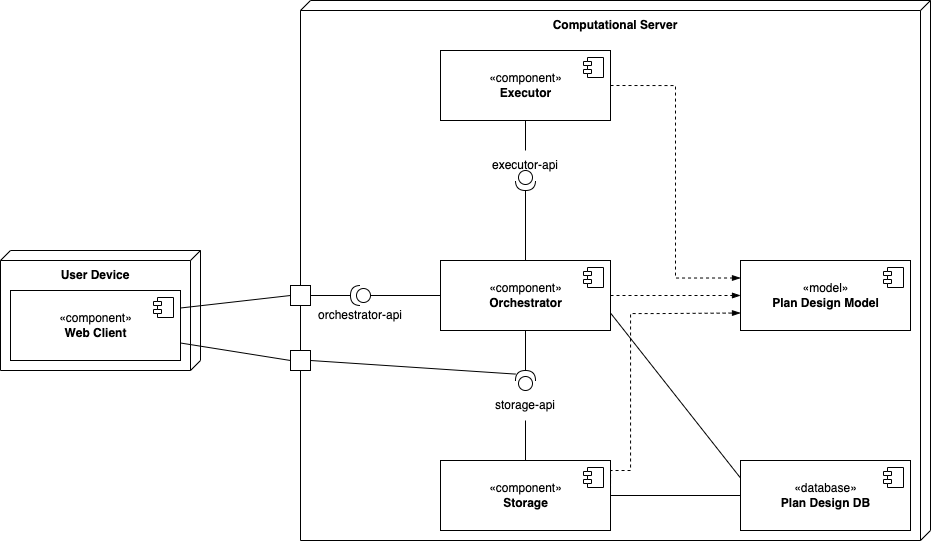
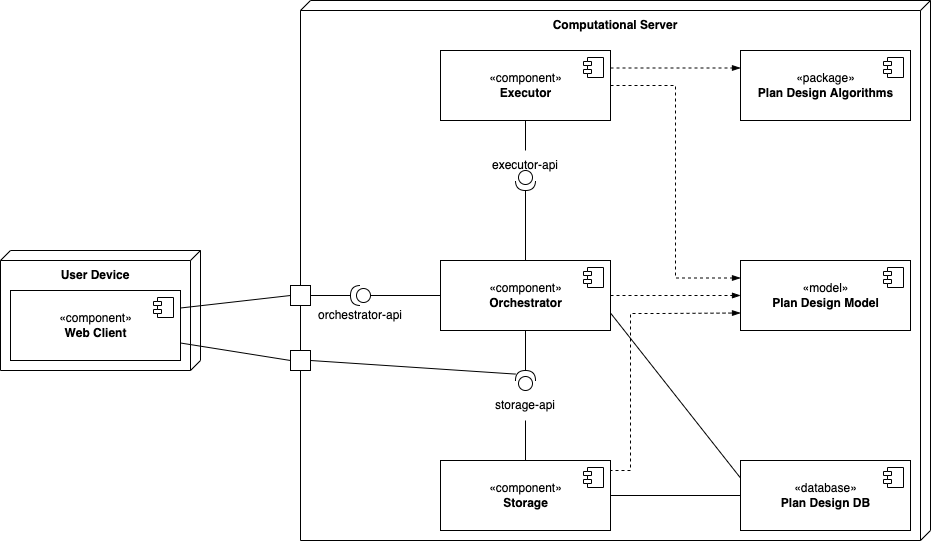
update stack

diff --git a/master/sources/diploma/architecture/common.tex b/master/sources/diploma/architecture/common.tex
@@ -1,8 +1,8 @@
-\subsection*{\large{Выбор архитектуры системы}}
+\subsection{\large{Выбор архитектуры системы}}
 \addcontentsline{toc}{subsection}{Выбор архитектуры системы}
 
 Общий вид системы для автоматического проектирования генеральных планов площадных объектов можно представить в виде
-двух независимых друг от друга частей: бизнес и расчётной.
+двух независимых друг от друга частей: бизнес-части и расчётной.
 Эти части системы схематично изображены на диаграмме ниже(см. рис\ \ref{pic:architecture__system-diagram}).
 
 \begin{figure}[H]
@@ -12,17 +12,17 @@
 \end{figure}
 \vskip 5 mm
 
-Бизнес часть приложения используется для отображения полученных результатов внешним экспертам со стороны заказчика.
+Бизнес-часть приложения используется для отображения полученных результатов внешним экспертам со стороны заказчика.
 Именно в этой части определены все правила и те объекты, которые используются в экспертной оценке.
-В расчётной части системы содержится большое количество объектов внутренней модели данных, используемых для повышения
-качества получаемого решения. Эти внутренние объекты никак не могут быть интерпретированы внешними экспертами.
+В расчётной части системы используются объекты внутренней модели данных.
+Эти внутренние объекты никак не могут быть интерпретированы внешними экспертами.
 
 Также стоит отметить, что внутренняя модель данных подвержена сильным изменениям в процессе исследований.
 Новые алгоритмы решения задачи могут давать куда более качественный результат, но только с учетом того, что
 будут использованы дополнительные структуры данных. В то время как внешняя модель данных относительно стабильна
 и представлена объектами целиком и полностью понятными внешним экспертам.
 
-Целью данной работы является проектирование и реализация только расчетной части системы, поэтому на всех остальных
+Целью данной работы является проектирование и реализация только расчётной части системы, поэтому на всех остальных
 диаграммах представленных в работе рассматривается именно эта часть.
 
 Для удовлетворения описанных в предыдущей главе требований предлагается архитектура системы,
@@ -33,45 +33,27 @@
 от требований распределения нагрузки. Микросервисный подход к разработке позволит разрабатывать
 автономные и слабосвязанные друг с другом сервисы.
 
-Для решения поставленной задачи предлагается следующая архитектура расчетного модуля.
+Для решения поставленной задачи предлагается следующая архитектура расчётного модуля
+(см. рис\ \ref{pic:architecture__common-component}).
 
 \begin{figure}[H]
-	\hspace*{-2.5 cm}\includegraphics[width=\textwidth, left]{architecture/pictures/common/deployment_diagram}
-	\caption{Диаграмма размещения}
-	\label{pic:architecture__deployment-diagram}
+	\hspace*{-2.5 cm}\includegraphics[width=\textwidth, left]{architecture/pictures/common/component}
+	\caption{Диаграмма компонентов}
+	\label{pic:architecture__common-component}
 \end{figure}
 \vskip 5 mm
 
-\noindent Компоненты представленные на диаграмме размещения:
+\noindent Компоненты представленные на диаграмме:
 \begin{itemize}
 	\item \textbf{Computational Server} -- сервер для запуска расчётных задач.
-	\item \textbf{User Client} -- пользовательское устройство для взаимодействия с расчётным сервером.
+	\item \textbf{User Device} -- пользовательское устройство для взаимодействия с расчётным сервером.
 	\item \textbf{Web Client} -- веб-клиент для получения данных о расчётных задачах.
-	\item \textbf{Orchestrator}
-	\begin{itemize}
-		\item API -- компонент, предоставляющий REST-API для взаимодействия с сервисом.
-		\item Execution -- компонент, контролирующий расчет задачи. Последовательно вызывает этапы выполнения задачи.
-	\end{itemize}
-	\item \textbf{Storage} -- сервис, отвечающий за чтение/хранение данных расчётных задач.
-	\begin{itemize}
-		\item API -- компонент, предоставляющий REST-API для взаимодействия с сервисом.
-	\end{itemize}
-	\item \textbf{Executor} -- сервис, отвечающий за запуск математических методов.
-	\begin{itemize}
-		\item API -- компонент, предоставляющий REST-API для взаимодействия с сервисом.
-		\item Execution -- компонент, осуществляющий запуск метода в отдельном процессе, обработку и сохранение решения.
-		\item Math Modules -- математическая библиотека, содержащая методы для расчета генеральных планов.
-	\end{itemize}
-	\item \textbf{PostgreSQL} -- база данных (БД), используемая для хранения данных для расчётных задач.
+	\item \textbf{Plan Design Algorithms} -- математическая библиотека, содержащая алгоритмы
+	для построения генеральных планов.
+	\item \textbf{Plan Design Model} -- расчётная модель данных.
+	\item \textbf{Executor} -- сервис, отвечающий за запуск методов математической библиотеки.
+	\item \textbf{Storage} -- сервис, отвечающий за чтение/запись расчётной модели данных.
+	\item \textbf{Orchestrator} -- сервис, контролирующий выполнение расчётных задач.
+	\item \textbf{Plan Design DB} -- база данных (БД).
 \end{itemize}
 
-Таким образом, исходя из данной диаграммы можно выделить пять крупных блоков.
-\begin{enumerate}
-	\item Математическая библиотека, содержащая методы для расчета генеральных планов.
-	\item Модель расчётных данных, служащая для обмена между сервисами.
-	\item Сервис \textbf{Executor}, отвечающий за запуск математических методов.
-	\item Сервис \textbf{Storage}, отвечающий за чтение/хранение расчётных данных.
-	\item Сервис \textbf{Orchestrator}, отвечающий за запуск расчётных задач.
-\end{enumerate}
-
-Детальное описание архитектуры каждого из блоков представлено далее.

diff --git a/master/sources/diploma/analysis/requirements.tex b/master/sources/diploma/analysis/requirements.tex
@@ -1,8 +1,5 @@
-\subsection*{\large{Формирование требований к средству автоматизации}}
-\addcontentsline{toc}{subsection}{Формирование требований к средству автоматизации}
-
-\subsubsection*{\large{Функциональные требования}}
-\addcontentsline{toc}{subsubsection}{Функциональные требования}
+\subsection*{\large{Функциональные требования}}
+\addcontentsline{toc}{subsection}{Функциональные требования}
 
 На основе анализа сформированы следующие функциональные требования:
 \begin{itemize}
@@ -20,8 +17,8 @@
     }
 \end{itemize}
 
-\subsubsection*{\large{Нефункциональные требования}}
-\addcontentsline{toc}{subsubsection}{Нефункциональные требования}
+\subsection*{\large{Нефункциональные требования}}
+\addcontentsline{toc}{subsection}{Нефункциональные требования}
 
 % https://habr.com/ru/post/231961/
 Из нефункциональных требований отметим наиболее важные, которые определяют сам процесс проектирования системы

diff --git a/master/sources/diploma/architecture/main.tex b/master/sources/diploma/architecture/main.tex
@@ -1,10 +1,20 @@
 \chapter{\LARGE{Проектирование средства автоматизации}}
 \addcontentsline{toc}{chapter}{Проектирование средства автоматизации}
 
-\input{architecture/stack.tex}
+%\input{architecture/stack.tex}
+
+\section{\Large{Системная архитектура}}
+\addcontentsline{toc}{section}{Системная архитектура}
+
 \input{architecture/common.tex}
-\input{architecture/math.tex}
-\input{architecture/model.tex}
-\input{architecture/executor.tex}
-\input{architecture/storage.tex}
-\input{architecture/orchestrator.tex}
+%\input{architecture/math.tex}
+%
+%
+%\section{\Large{Программная архитектура}}
+%\addcontentsline{toc}{section}{Программная архитектура}
+
+
+%\input{architecture/model.tex}
+%\input{architecture/executor.tex}
+%\input{architecture/storage.tex}
+%\input{architecture/orchestrator.tex}

diff --git a/master/sources/diploma/main.tex b/master/sources/diploma/main.tex
@@ -29,15 +29,15 @@
 %\newpage
 %\large{\tableofcontents}
 %\newpage
-\input{introduction/main.tex}
-\input{problem.tex}
-\newpage
-\input{analysis/main.tex}
-\newpage
+%\input{introduction/main.tex}
+%\input{problem.tex}
+%\newpage
+%\input{analysis/main.tex}
+%\newpage
 \input{architecture/main.tex}
-\newpage
-\input{implementation/main.tex}
-\newpage
+%\newpage
+%\input{implementation/main.tex}
+%\newpage
 %\input{conclusion.tex}
 %\newpage
 %\input{bibliography.tex}
